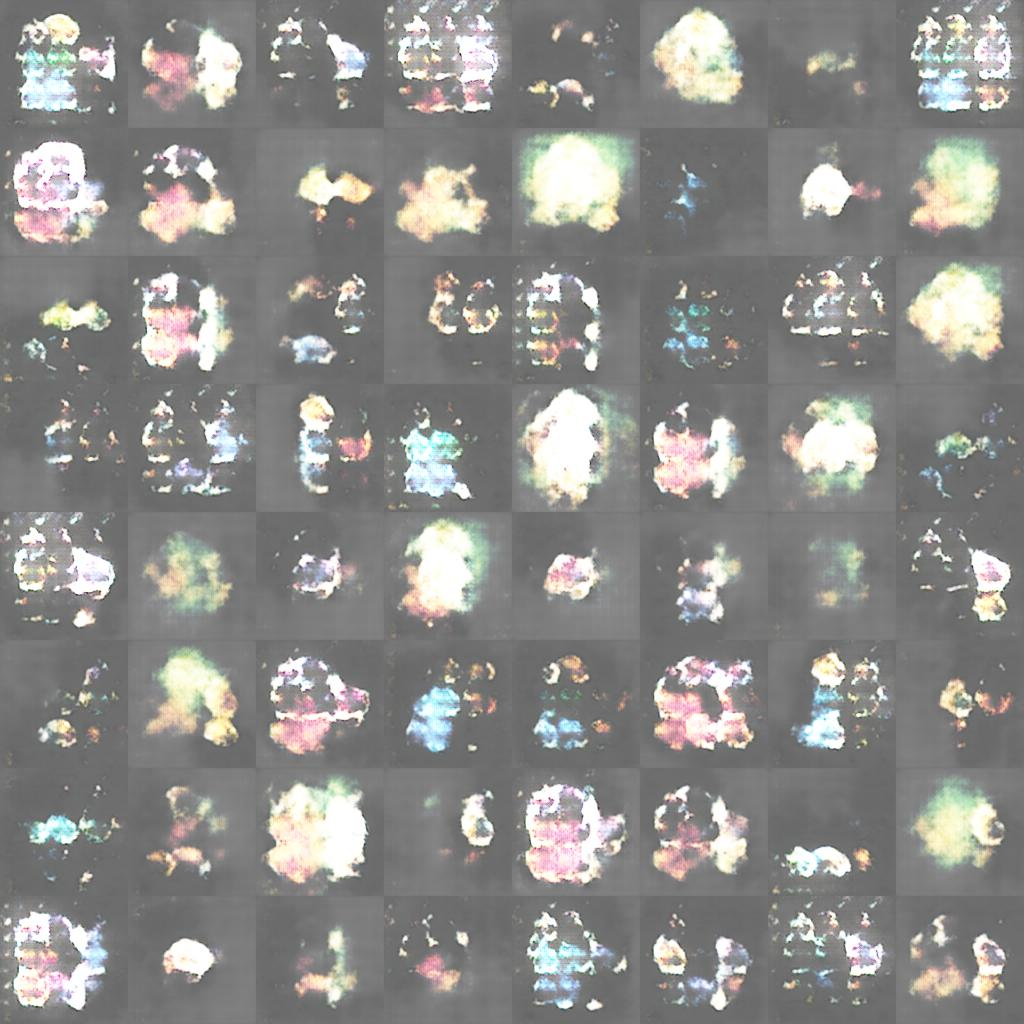
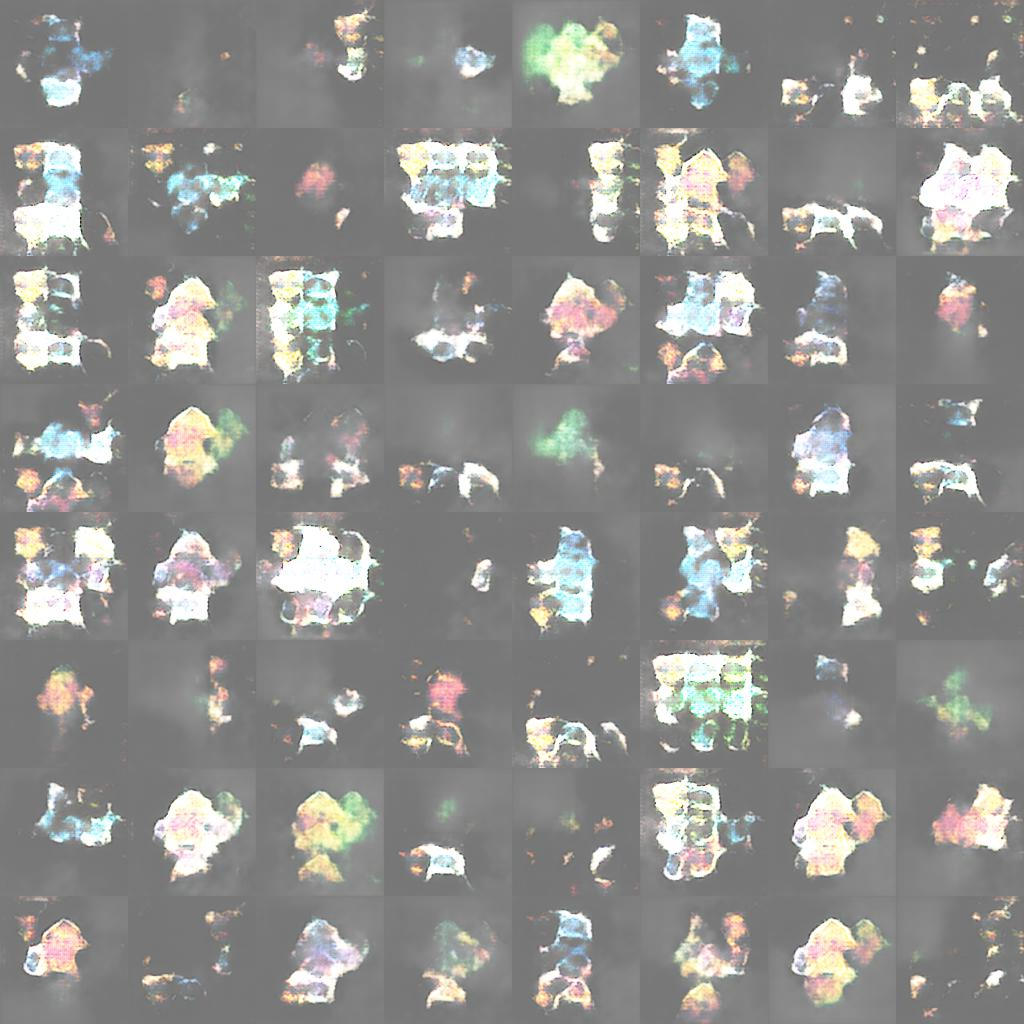
intermediate

diff --git a/pokeGAN.py b/pokeGAN.py
@@ -15,7 +15,7 @@ slim = tf.contrib.slim
 
 HEIGHT, WIDTH, CHANNEL = 128, 128, 3
 BATCH_SIZE = 64
-EPOCH = 501
+EPOCH = 1501
 version = 'newPokemon'
 newPoke_path = './' + version
 
